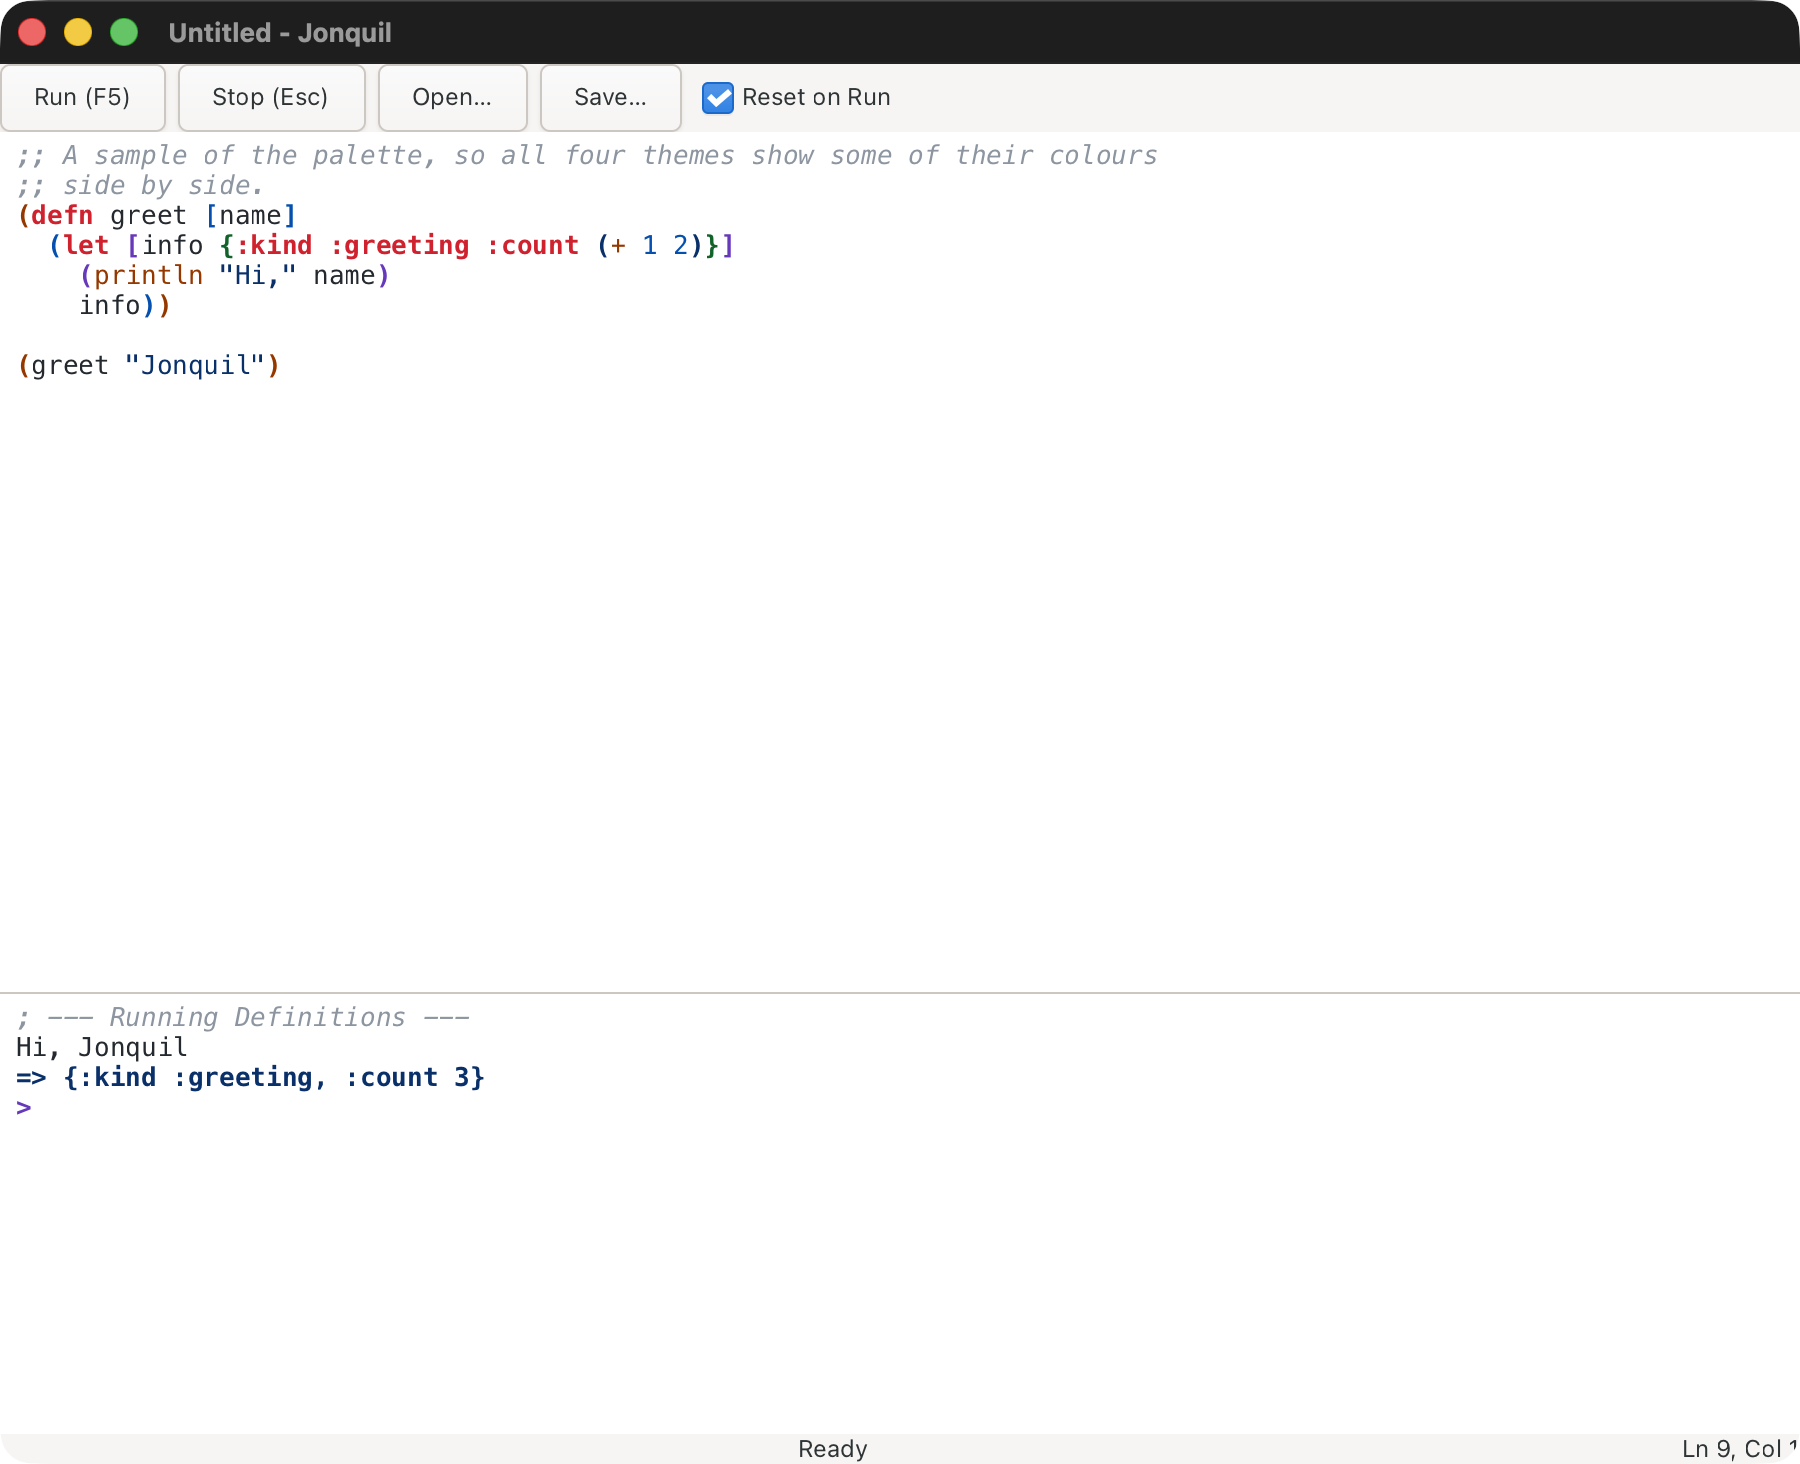
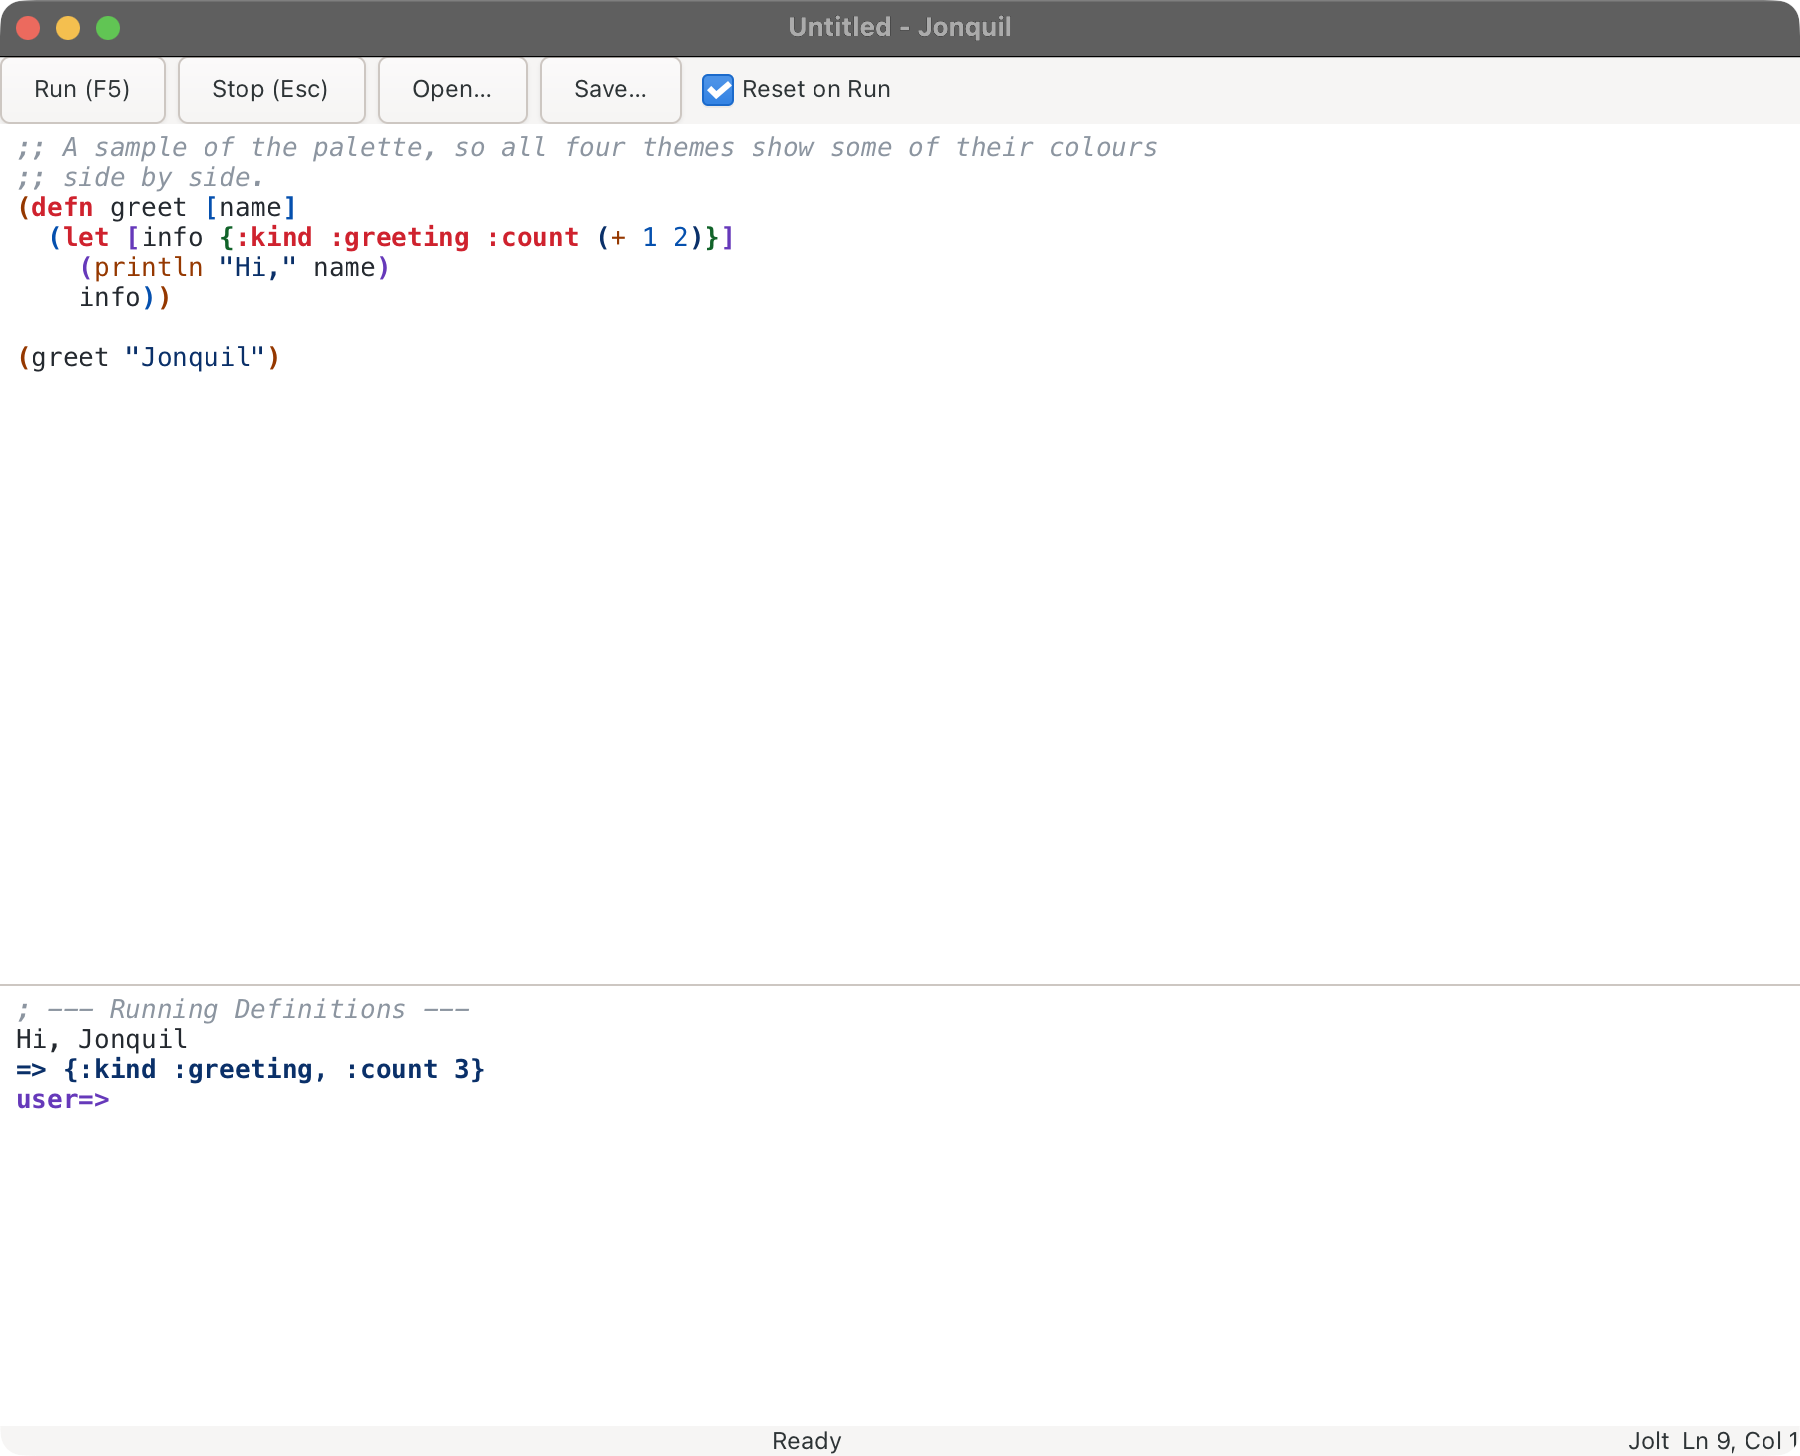
docs: the namespace prompt, retaken screenshots, current counts
The guide describes the prompt naming the session's namespace; the
ROADMAP drops the finished Next item and the CLJD and CLJ bullets it
closed. Every screenshot is retaken with bb docs:shots.

diff --git a/docs/guide/development.md b/docs/guide/development.md
@@ -11,7 +11,7 @@ time.
 `bb check` requires every project namespace headlessly and exits 0; it
 currently loads 38 namespaces in under half a second, and it's the fastest
 way to catch a namespace that doesn't compile before running anything
-slower. `bb test` runs the full unit suite (279 tests, 1613 assertions
+slower. `bb test` runs the full unit suite (280 tests, 1617 assertions
 today) with nothing outside the process, or pass namespace
 names to run a subset for the TDD loop: `bb test jonquil.edit-test`. That
 count now includes both attach evaluators' own tests, run against an
@@ -42,12 +42,13 @@ others can't.
 front-end self-test rows against them, calling the same button and key
 handlers a person would use rather than the internal functions directly.
 The first window covers the Definitions editor and the Interactions console
-(`dev/gtk_selftest.clj`, 35 rows); the second covers the full application
-window (`dev/gtk_selftest_window.clj`, 170 rows), with its rows split by
+(`dev/gtk_selftest.clj`, 36 rows); the second covers the full application
+window (`dev/gtk_selftest_window.clj`, 175 rows), with its rows split by
 feature area under `dev/gtk_selftest_window/`: `support`, `run_form`,
 `run_repl`, `files`, `find_replace`, `close_prerun`, `window_keys`,
 `themes`, `popovers_quickdoc`, `completion`, `rename_menus`,
-`console_layout`, `dialects`, and `inspector` (the panel widget in
+`console_layout`, `dialects`, `prompt` (the namespace prompt following a
+REPL line, a Run and a slow evaluation), and `inspector` (the panel widget in
 isolation, then the real window's own panel: opening, in/out, paging
 across a page edge, table/meta toggles, def, Run Form, and Escape). The
 third (`dev/gtk_selftest_nrepl.clj`,
@@ -64,14 +65,14 @@ fork checkout and no real app; its rows cover connecting, a quiet load,
 Run Selection and Run Form switching the session's namespace, quick doc,
 completion, Stop's detach, and the inspector's unavailable sentence, over
 that fake connection. The fifth
-(`dev/gtk_selftest_clj.clj`, 16 rows, plus two checks after the window
+(`dev/gtk_selftest_clj.clj`, 17 rows, plus two checks after the window
 closes) opens against a throwaway JVM Clojure project whose
 `.jonquil.edn` says `{:dialect :clj}` and whose `.nrepl-port` names a
 fake JVM nREPL server running in this same process
 (`dev/fake_jvm_nrepl.clj`), so it needs no real `clojure -M:serve`; its
 rows cover connecting and Run moving the prompt, a selection against a
 namespace the server hasn't loaded, Stop's interrupt, stdin, reconnecting
-after the server restarts, quick doc, jump to an external definition,
+after the server restarts and the prompt going back to `user`, quick doc, jump to an external definition,
 full docs and its Escape, the inspector before and after a Run, in and
 out, a lost connection and reconnecting while idle, Reset on Run's tick
 through a switch to a Jolt file and back, and a close that never sends

diff --git a/docs/guide/architecture.md b/docs/guide/architecture.md
@@ -97,13 +97,13 @@ The Interactions console is one GtkTextBuffer laid out as
 
 ```mermaid
 flowchart LR
-  hist["output history<br/>(read-only)"] --- prompt["#quot;> #quot;<br/>(read-only)"] --- input["input ..."]
+  hist["output history<br/>(read-only)"] --- prompt["#quot;user=> #quot;<br/>(read-only)"] --- input["input ..."]
   m0(["0"]) -.-> hist
   mout(["out-end mark<br/>right gravity"]) -.-> prompt
   min(["input-start mark<br/>left gravity"]) -.-> input
 ```
 
-Output history and the prompt carry a read-only tag, which is what stops typing, pasting or Backspace from reaching into old output; GtkTextView's own edit path already refuses edits under that tag. `out-end` is a mark with right gravity: `append!` always inserts at it, so new output lands before the prompt and the mark tracks past it. `input-start` is a mark with left gravity: text typed at it stays after it, and output inserted earlier in the buffer pushes it forward automatically. Committing an entry (Return, when it evaluates or sends stdin) moves both marks explicitly to open a fresh `"> "` prompt after the old input, rather than relying on gravity for that step.
+Output history and the prompt carry a read-only tag, which is what stops typing, pasting or Backspace from reaching into old output; GtkTextView's own edit path already refuses edits under that tag. `out-end` is a mark with right gravity: `append!` always inserts at it, so new output lands before the prompt and the mark tracks past it. `input-start` is a mark with left gravity: text typed at it stays after it, and output inserted earlier in the buffer pushes it forward automatically. Committing an entry (Return, when it evaluates or sends stdin) moves both marks explicitly to open a fresh prompt after the old input, rather than relying on gravity for that step. The prompt names the session's namespace (`user=> `, `demo.core=> `): the view keeps its current text, and `set-prompt!` rewrites the region between the two marks in place, keeping the typed input and the caret. The window calls it with the evaluator's `prompt-ns` after every evaluation, when it switches evaluators, and when an attach connection comes or goes.
 
 The console reads its busy/waiting state live from the engine (`:evaluating?`/`:waiting?`, functions supplied at construction) rather than mirroring it into a console-owned atom. A mirror set right after starting an eval could lose a race against a fast eval's own completion clearing it first, stranding the console in a busy state with nothing left to un-strand it.
 

diff --git a/docs/guide/using-jonquil.md b/docs/guide/using-jonquil.md
@@ -14,7 +14,7 @@ Across the top sits a toolbar: **Run (F5)**, **Stop (Esc)**, **Open…**,
 a vertical split holds two panes you can resize by dragging the divider
 between them: the **Definitions** editor on top, where you write a program,
 and the **Interactions** console below, where output appears and where you
-can type expressions directly at a `> ` prompt. A status label along the
+can type expressions directly at a `user=> ` prompt. A status label along the
 bottom reads `Ready`, `Running…`, `Waiting for input`, or `Stopped`,
 depending on what the last Run or REPL entry is doing. Beside it, the
 dialect label says which runtime this window uses (see
@@ -73,8 +73,12 @@ the flash first and puts the caret back, so it never types over the form.
 
 ![A Run's output followed by a REPL entry evaluated afterward, in the same console](../images/repl.png)
 
-The `> ` prompt at the bottom of the console takes one expression at a
-time. Type something and press Return, and the result appears the same
+The prompt at the bottom of the console takes one expression at a time.
+It names the namespace your entry will evaluate in, the way `clj` does, so a
+new window reads `user=> `. It follows that namespace as it moves: an
+`(ns demo.core)` typed at the prompt, or a Run of a buffer that starts with
+one, turns it into `demo.core=> `, and whatever you've typed behind it
+stays put. Type something and press Return, and the result appears the same
 way a Run's result does, `=> `-prefixed. Where Run always evaluates the
 whole Definitions pane, and by default clears out whatever earlier
 evaluations defined first, a REPL entry evaluates only what you typed, and
@@ -866,8 +870,6 @@ than being surprises you'd otherwise have to rediscover:
 - A ClojureDart load stops at the first form the app's REPL compiler
   rejects, even though the app's own watcher still compiles the saved
   file.
-- The console prompt reads `> ` for ClojureDart the same as every other
-  runtime: it doesn't show which namespace the session is actually in.
 - JVM Clojure attaches to a server you started, and never starts or stops
   the JVM itself.
 - Reset on Run isn't available for JVM Clojure either: it's your own JVM,

diff --git a/README.md b/README.md
@@ -60,7 +60,7 @@ jolt build: note — on macOS this binary is unsigned; to share it,
 
 ## What works headless
 
-The core runs without GTK: everything below, plus `jonquil.console` and `jonquil.session`. Run `bb test` to verify. As of 2026-10-01, 279 tests pass (1613 assertions).
+The core runs without GTK: everything below, plus `jonquil.console` and `jonquil.session`. Run `bb test` to verify. As of 2026-10-01, 280 tests pass (1617 assertions).
 
 - `jonquil.syntax`: Tokenization, bracket matching, indentation analysis, formatting and doc lookup.
 - `jonquil.paint`: Syntax highlighting plan from tokens and rainbow brackets.
